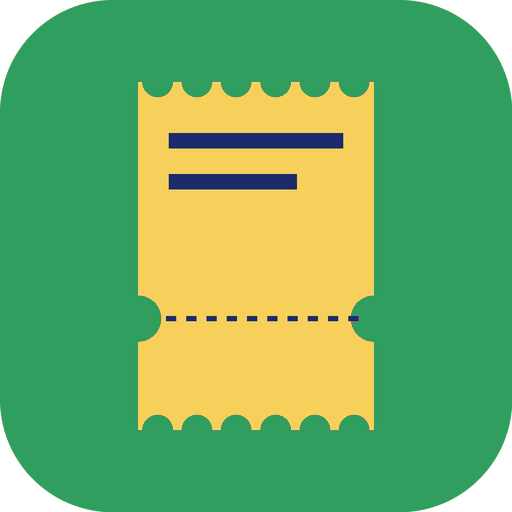
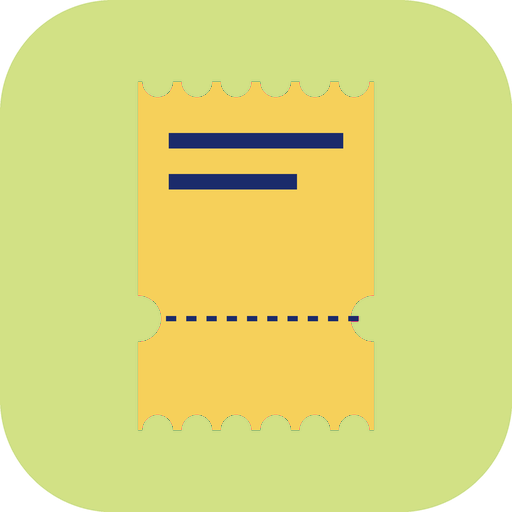
연두 라임색으로, 다 같이 보기에 내 기록도 포함

diff --git a/public/index.html b/public/index.html
@@ -8,7 +8,7 @@
 <meta property="og:title" content="TICKET BOOK">
 <meta property="og:description" content="포스터 한 장 올리면 나만의 티켓·팔찌 기록이 완성돼요">
 <meta property="og:type" content="website">
-<meta name="theme-color" content="#2f9e5f">
+<meta name="theme-color" content="#d2e185">
 <link rel="icon" href="/icon-192.png">
 <link rel="apple-touch-icon" href="/icon-192.png">
 <link rel="manifest" href="/manifest.webmanifest">
@@ -23,16 +23,16 @@
 /* Layout: one phone-width app column; journal-spread preview on top, felt-swatch controls below, sticky action bar */
 :root{
   --bg:#eceef3; --surface:#ffffff; --sunk:#f4f5f8; --ink:#17181c; --muted:#6b6f7b; --line:#dcdfe6;
-  --accent:#2f9e5f; --accent-ink:#ffffff; --focus:#2f6bff;
+  --accent:#d2e185; --accent-ink:#1f2a10; --focus:#2f6bff;
   --f-ui:"IBM Plex Sans KR",system-ui,-apple-system,"Apple SD Gothic Neo",sans-serif;
   --f-band:"IBM Plex Sans KR","Apple SD Gothic Neo",sans-serif;
 }
 @media (prefers-color-scheme: dark){:root:not([data-theme="light"]){
   --bg:#121317; --surface:#1c1d23; --sunk:#25262d; --ink:#eef0f5; --muted:#9a9eab; --line:#30323b;
-  --accent:#5fcf8c; --accent-ink:#0c1a12; --focus:#7aa2ff; color-scheme:dark}}
+  --accent:#d2e185; --accent-ink:#1f2a10; --focus:#7aa2ff; color-scheme:dark}}
 :root[data-theme="dark"]{
   --bg:#121317; --surface:#1c1d23; --sunk:#25262d; --ink:#eef0f5; --muted:#9a9eab; --line:#30323b;
-  --accent:#5fcf8c; --accent-ink:#0c1a12; --focus:#7aa2ff; color-scheme:dark}
+  --accent:#d2e185; --accent-ink:#1f2a10; --focus:#7aa2ff; color-scheme:dark}
 *{box-sizing:border-box}
 [hidden]{display:none!important}
 html,body{background:var(--bg);color:var(--ink)}
@@ -341,7 +341,7 @@ function stitchBrand(el){
   const c=document.createElement('canvas');c.width=Math.ceil(wid*dpr);c.height=Math.ceil(hei*dpr);
   c.style.height='34px';c.style.width=(34*wid/hei)+'px';c.style.display='block';c.setAttribute('role','img');c.setAttribute('aria-label',txt);
   const x=c.getContext('2d');x.scale(dpr,dpr);x.font=`${S}px ${F_STITCH}`;
-  let px=S*.15;[...txt].forEach((ch,i)=>{const cw=cws[i];if(ch!==' '){x.save();x.translate(px+cw/2,S*1.02);x.rotate(((i*37)%7-3)*.012);stitchedGlyph(x,ch,cw,S,'#7ccf9a');x.restore()}px+=cw*TR});
+  let px=S*.15;[...txt].forEach((ch,i)=>{const cw=cws[i];if(ch!==' '){x.save();x.translate(px+cw/2,S*1.02);x.rotate(((i*37)%7-3)*.012);stitchedGlyph(x,ch,cw,S,'#d2e185');x.restore()}px+=cw*TR});
   el.textContent='';el.appendChild(c);
 }
 new MutationObserver(()=>document.querySelectorAll('.brand:not([data-stitched])').forEach(stitchBrand)).observe(document.documentElement,{childList:true,subtree:true});
@@ -396,7 +396,7 @@ function render(ctx,rec,t=1){
   for(let i=0;i<900;i++){ctx.fillStyle=`rgba(90,80,70,${r()*.07})`;ctx.fillRect(r()*W,r()*H,3,1)}
   const px=40,py=150,pw=1000,ph=1060,mid=W/2;
   // bookmark ribbon
-  ctx.fillStyle='#2f9e5f';ctx.beginPath();ctx.moveTo(300,py+ph-20);ctx.lineTo(326,py+ph-20);ctx.lineTo(326,py+ph+90);ctx.lineTo(313,py+ph+76);ctx.lineTo(300,py+ph+90);ctx.closePath();ctx.fill();
+  ctx.fillStyle='#d2e185';ctx.beginPath();ctx.moveTo(300,py+ph-20);ctx.lineTo(326,py+ph-20);ctx.lineTo(326,py+ph+90);ctx.lineTo(313,py+ph+76);ctx.lineTo(300,py+ph+90);ctx.closePath();ctx.fill();
   // pages
   ctx.save();ctx.shadowColor='rgba(0,0,0,.22)';ctx.shadowBlur=30;ctx.shadowOffsetY=12;ctx.fillStyle=pageFill(rec);ctx.fillRect(px,py,pw,ph);ctx.restore();
   for(let k=1;k<=4;k++){ctx.strokeStyle='rgba(0,0,0,.06)';ctx.lineWidth=1;ctx.strokeRect(px-k*2,py+k*1.5,pw+k*4,ph)}
@@ -627,7 +627,7 @@ function spreadBase(ctx,seed,paper){
   ctx.fillStyle='#e7e4df';ctx.fillRect(0,0,W,H);
   for(let i=0;i<900;i++){ctx.fillStyle=`rgba(90,80,70,${r()*.07})`;ctx.fillRect(r()*W,r()*H,3,1)}
   const px=40,py=150,pw=1000,ph=1060,mid=W/2;
-  ctx.fillStyle='#2f9e5f';ctx.beginPath();ctx.moveTo(300,py+ph-20);ctx.lineTo(326,py+ph-20);ctx.lineTo(326,py+ph+90);ctx.lineTo(313,py+ph+76);ctx.lineTo(300,py+ph+90);ctx.closePath();ctx.fill();
+  ctx.fillStyle='#d2e185';ctx.beginPath();ctx.moveTo(300,py+ph-20);ctx.lineTo(326,py+ph-20);ctx.lineTo(326,py+ph+90);ctx.lineTo(313,py+ph+76);ctx.lineTo(300,py+ph+90);ctx.closePath();ctx.fill();
   ctx.save();ctx.shadowColor='rgba(0,0,0,.22)';ctx.shadowBlur=30;ctx.shadowOffsetY=12;ctx.fillStyle=pageFill({paper});ctx.fillRect(px,py,pw,ph);ctx.restore();
   for(let k=1;k<=4;k++){ctx.strokeStyle='rgba(0,0,0,.06)';ctx.lineWidth=1;ctx.strokeRect(px-k*2,py+k*1.5,pw+k*4,ph)}
   ctx.save();ctx.beginPath();ctx.rect(px,py,pw,ph);ctx.clip();
@@ -638,9 +638,10 @@ function gutter(ctx,py,ph){const mid=W/2,g=ctx.createLinearGradient(mid-60,0,mid
 /* ---------- cover settings (표지 꾸미기, 이 브라우저에 저장) ---------- */
 const COVER_KEY='bandlog.cover';
 const COVER_PAPERS=[['크라프트','#cfae7f'],['밤하늘','#2b3557'],['딸기우유','#f2b8c6'],['민트','#a8d8c4'],['먹색','#2b2b2e'],['하늘','#a9cdee'],['레몬','#f3dd7a'],['미색','#efe6d2']];
-const COVER_LETTERS=['#ff9fb8','#ffffff','#ffd23f','#7ccf9a','#7fb6ff','#ff6b3d','#b79bff','#1b1d22'];
+const COVER_LETTERS=['#d2e185','#ff9fb8','#ffffff','#ffd23f','#7ccf9a','#7fb6ff','#ff6b3d','#b79bff','#1b1d22'];
 let coverSaved=(()=>{try{return JSON.parse(localStorage.getItem(COVER_KEY))||{}}catch(e){return{}}})();
-const coverCfg=()=>({title:'TICKET/BOOK',letter:'#7ccf9a',paper:'#cfae7f',label:'',toc:'목차',photo:'',love:'',...coverSaved});
+if(coverSaved.letter==='#7ccf9a')coverSaved.letter='#d2e185';
+const coverCfg=()=>({title:'TICKET/BOOK',letter:'#d2e185',paper:'#cfae7f',label:'',toc:'목차',photo:'',love:'',...coverSaved});
 function renderCover(ctx,cfg=coverCfg()){
   const recs=ordered(),nb=recs.reduce((a,r)=>a+(r.kind==='ticket'?0:r.bands.length),0),nt=recs.filter(r=>r.kind==='ticket').length;
   const{px,py,pw,ph,mid,r}=spreadBase(ctx,'cover','cream');
@@ -662,7 +663,7 @@ function renderCover(ctx,cfg=coverCfg()){
   const labelText=(cfg.label||'').trim()||`팔찌 ${nb}개 · 티켓 ${nt}장`;
   ctx.save();ctx.translate(px+235,py+730);ctx.rotate(-.04);
   ctx.shadowColor='rgba(0,0,0,.2)';ctx.shadowBlur=10;ctx.shadowOffsetY=4;ctx.fillStyle='#fffdf7';ctx.fillRect(-180,-55,360,110);ctx.shadowColor='transparent';
-  ctx.strokeStyle='rgba(47,158,95,.35)';ctx.lineWidth=2;ctx.beginPath();ctx.moveTo(-160,24);ctx.lineTo(160,24);ctx.stroke();
+  ctx.strokeStyle='rgba(169,189,79,.5)';ctx.lineWidth=2;ctx.beginPath();ctx.moveTo(-160,24);ctx.lineTo(160,24);ctx.stroke();
   ctx.textAlign='center';fitFont(ctx,labelText,300,30,'"Gamja Flower","Nanum Pen Script",cursive','400');ctx.fillStyle='#2a2c33';ctx.fillText(labelText,0,12);
   ctx.fillStyle='rgba(255,214,120,.75)';ctx.save();ctx.translate(0,-55);ctx.rotate(.05);ctx.fillRect(-70,-18,140,36);ctx.restore();
   ctx.restore();
@@ -682,7 +683,7 @@ function renderEnd(ctx){
   ctx.fillText('다음 티켓을',(px+mid)/2,py+ph/2-30);ctx.fillText('기다리는 중...',(px+mid)/2,py+ph/2+40);
   const bx=mid+80,by=py+260,bw=pw/2-160,bh=520;
   ctx.setLineDash([16,12]);ctx.strokeStyle='#b8bac2';ctx.lineWidth=4;ctx.beginPath();ctx.roundRect(bx,by,bw,bh,30);ctx.stroke();ctx.setLineDash([]);
-  ctx.fillStyle='#2f9e5f';ctx.font=`700 150px ${F_HAND}`;ctx.fillText('+',bx+bw/2,by+bh/2+20);
+  ctx.fillStyle='#a9bd4f';ctx.font=`700 150px ${F_HAND}`;ctx.fillText('+',bx+bw/2,by+bh/2+20);
   ctx.textAlign='left';gutter(ctx,py,ph);ctx.restore();
 }
 /* ---------- 앞표지 (I ♥ ( )) · 뒤표지 (티켓 테두리 로고) ---------- */
@@ -1036,12 +1037,11 @@ function renderCrowdNight(ctx,recs,time){
 function crowdUI(){
   const st=document.getElementById('stage');
   st.innerHTML=`<canvas id="crowd" width="${W}" height="${H}" aria-label="저장한 기록마다 한 명씩 손잡고 원을 그리며 춤추는 잔디밭 장면"></canvas>
-  <p class="stage-hint" id="crowdHint">${cloudConfigured()?'모두가 공개한 기록이 한 사람씩 모여 춤춰요<br>누르면 그 기록을 볼 수 있어요':'팔찌를 찬 사람이 내 기록이에요<br>누르면 공책의 그 페이지로 넘어가요'}</p>
+  <p class="stage-hint" id="crowdHint">${cloudConfigured()?'내 기록과 모두가 공개한 기록이 한 사람씩 모여 춤춰요<br>누르면 그 기록을 볼 수 있어요':'팔찌를 찬 사람이 내 기록이에요<br>누르면 공책의 그 페이지로 넘어가요'}</p>
   <div class="stage-actions"><button class="btn" id="crowdImg">동영상으로 보기</button></div>`;
-  const cv=st.querySelector('#crowd'),ctx=cv.getContext('2d');let recs=cloudConfigured()?[]:ordered();
+  const cv=st.querySelector('#crowd'),ctx=cv.getContext('2d');let recs=ordered();
   recs.forEach(r=>r.bands.forEach(getImg));
-  if(cloudConfigured())window.TBCloud.loadPublic().then(list=>{recs.splice(0,recs.length,...list);list.forEach(r=>r.bands.forEach(getImg));
-    if(!list.length){const h=document.getElementById('crowdHint');if(h)h.textContent='아직 공개된 기록이 없어요. 기록을 만들 때 공개로 설정하면 여기에 나와요'}})
+  if(cloudConfigured())window.TBCloud.loadPublic().then(list=>{const mine=new Set(recs.map(r=>r.id)),more=list.filter(r=>!mine.has(r.id));recs.push(...more);more.forEach(r=>r.bands.forEach(getImg))})
     .catch(err=>{console.error(err);const h=document.getElementById('crowdHint');if(h)h.textContent='공개 기록을 불러오지 못했어요. 잠시 뒤 다시 열어 주세요'});
   const t0=performance.now();
   const loop=now=>{if(view!=='home'||homeMode!=='crowd'||!document.getElementById('crowd'))return;
@@ -1259,7 +1259,7 @@ function coverEdit(){
     $('#c-photoLabel').firstChild.textContent='사진 바꾸기';$('#c-noPhoto').hidden=false;paintCover()};im.src=fr.result};fr.readAsDataURL(f)};
   $('#c-noPhoto').onclick=e=>{coverDraft.photo='';e.target.hidden=true;$('#c-photoLabel').firstChild.textContent='사진 올리기';paintCover()};
   $('#cvBack').onclick=()=>{pageIdx=ret;home()};
-  document.getElementById('cvReset').onclick=()=>{coverDraft={title:'TICKET/BOOK',letter:'#7ccf9a',paper:'#cfae7f',label:'',toc:'목차',photo:'',love:''};coverEdit.refill();};
+  document.getElementById('cvReset').onclick=()=>{coverDraft={title:'TICKET/BOOK',letter:'#d2e185',paper:'#cfae7f',label:'',toc:'목차',photo:'',love:''};coverEdit.refill();};
   coverEdit.refill=()=>{$('#c-title').value=coverDraft.title;$('#c-label').value='';
     $app.querySelectorAll('[data-act]').forEach(g=>g.querySelectorAll('button').forEach(b=>b.setAttribute('aria-pressed',b.dataset.v===coverDraft[g.dataset.act])));
     $('#c-noPhoto').hidden=true;$('#c-photoLabel').firstChild.textContent='사진 올리기';paintCover()};
